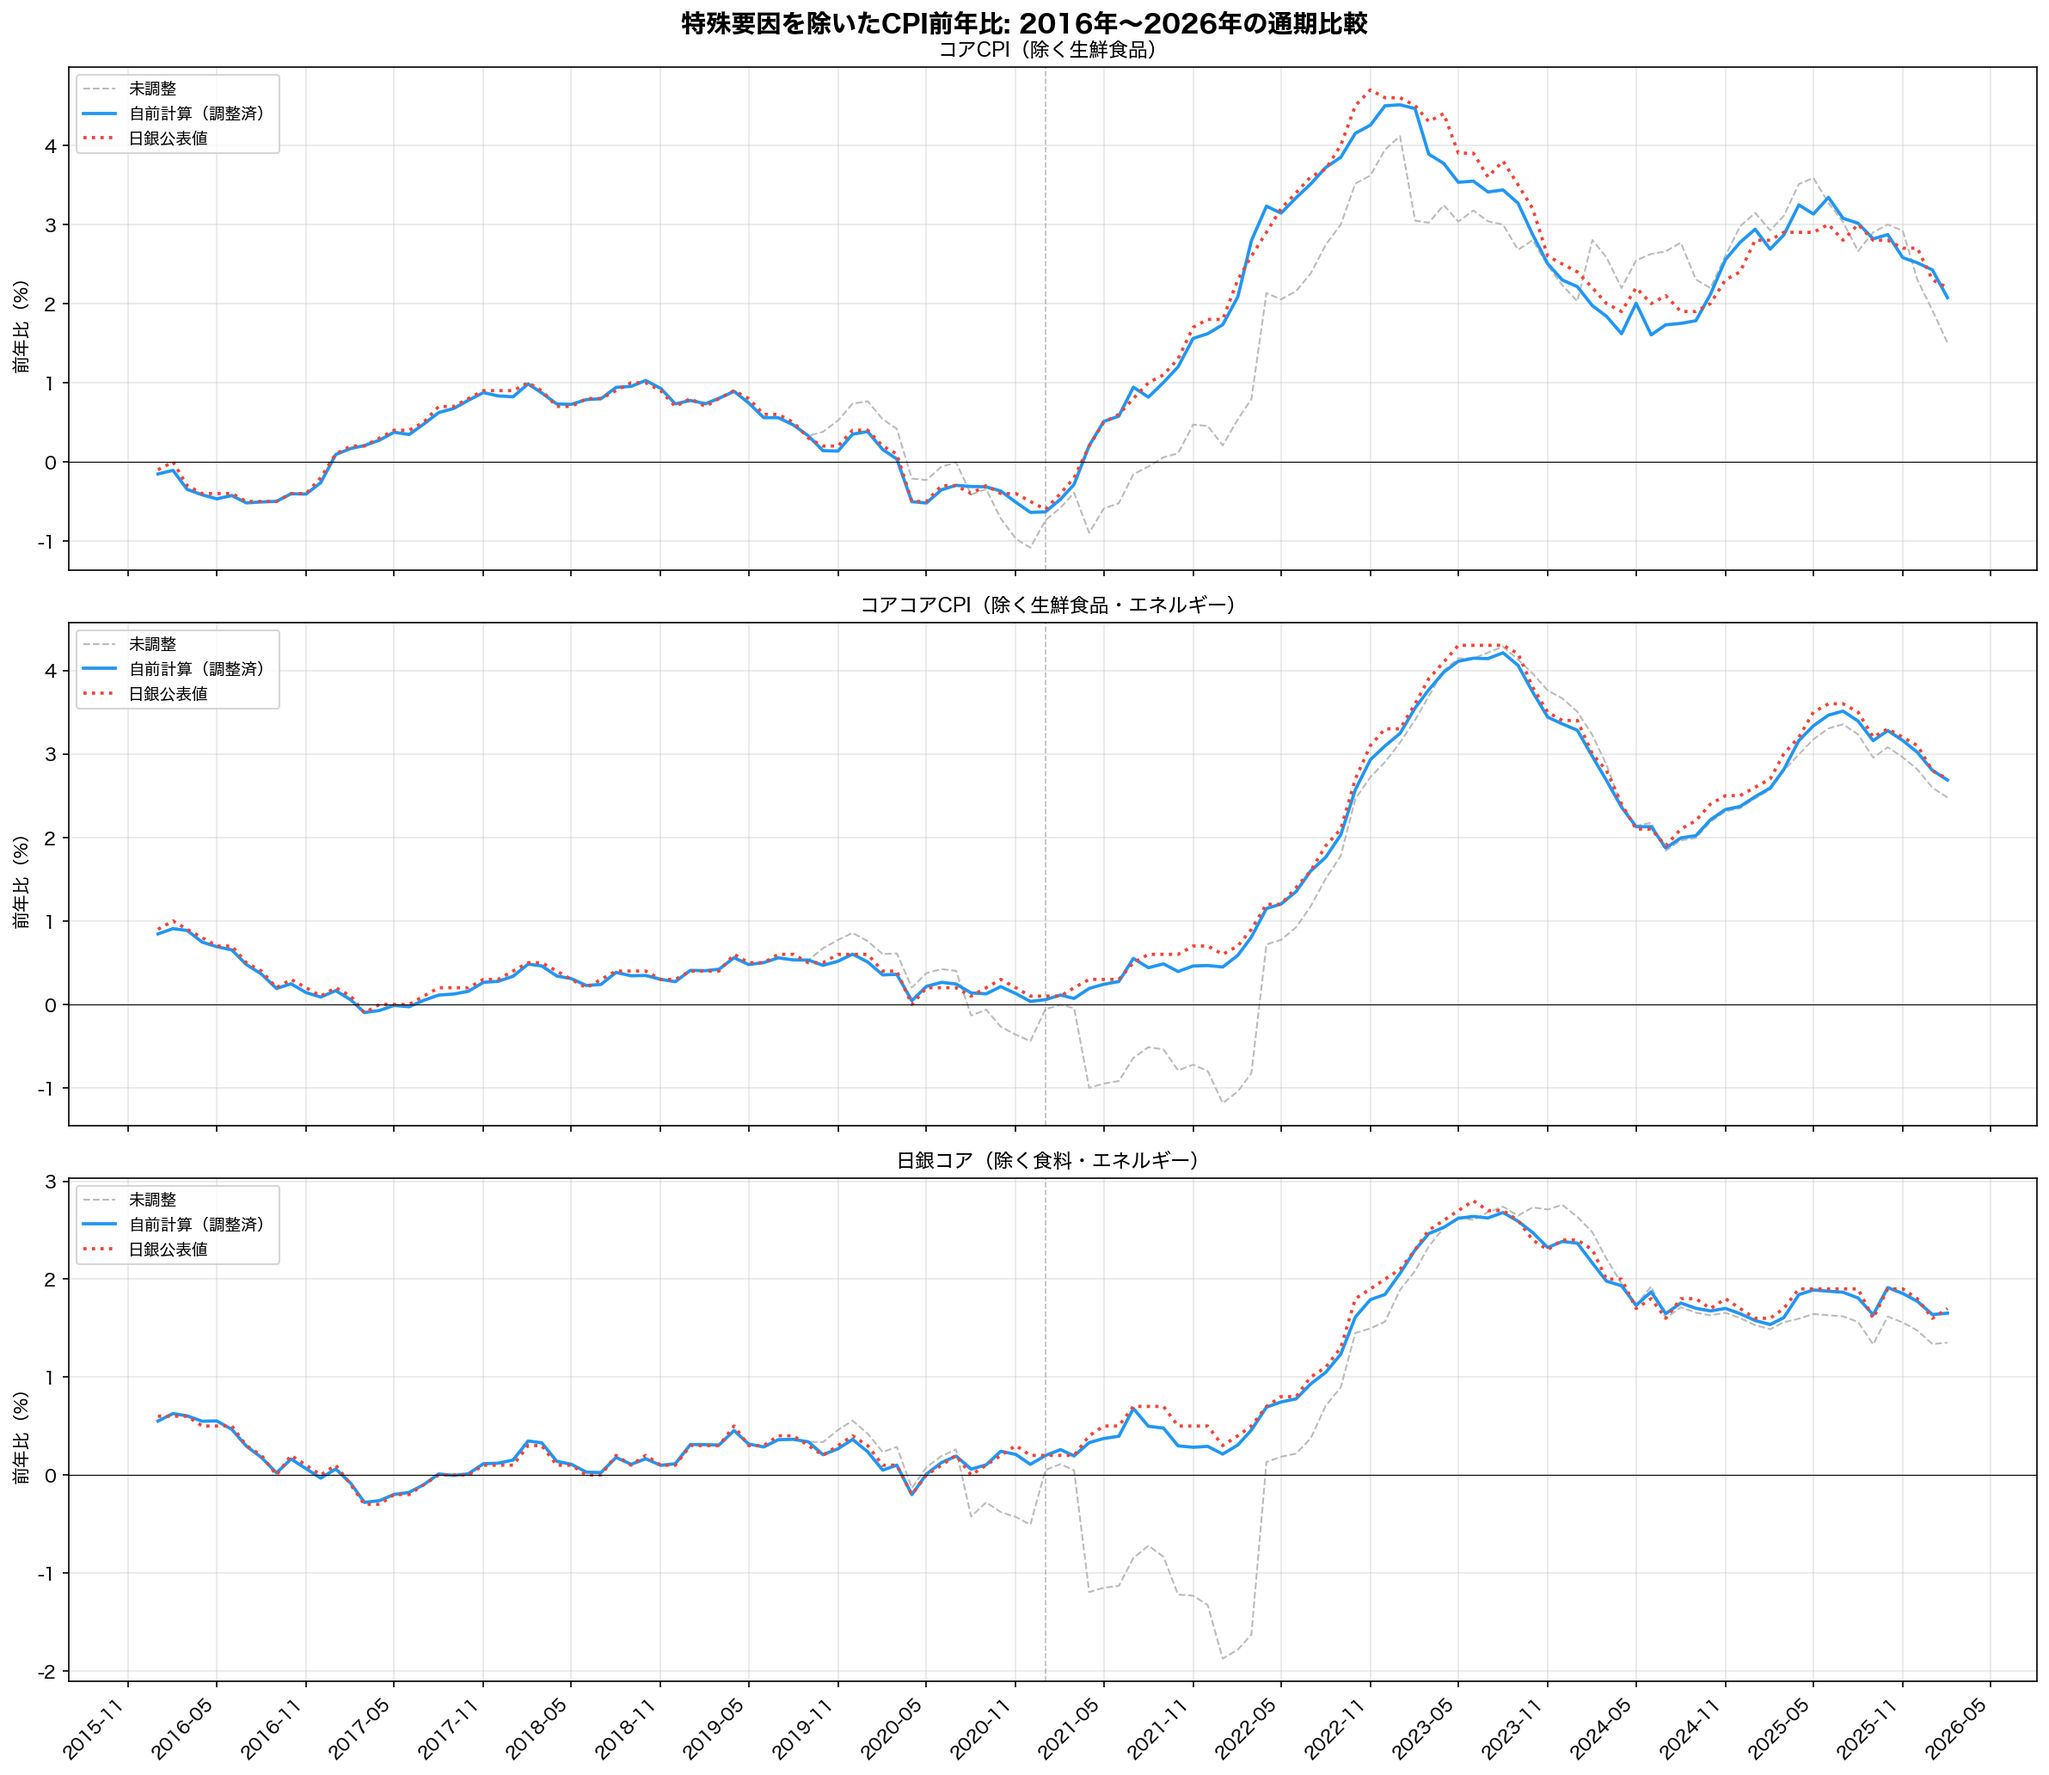
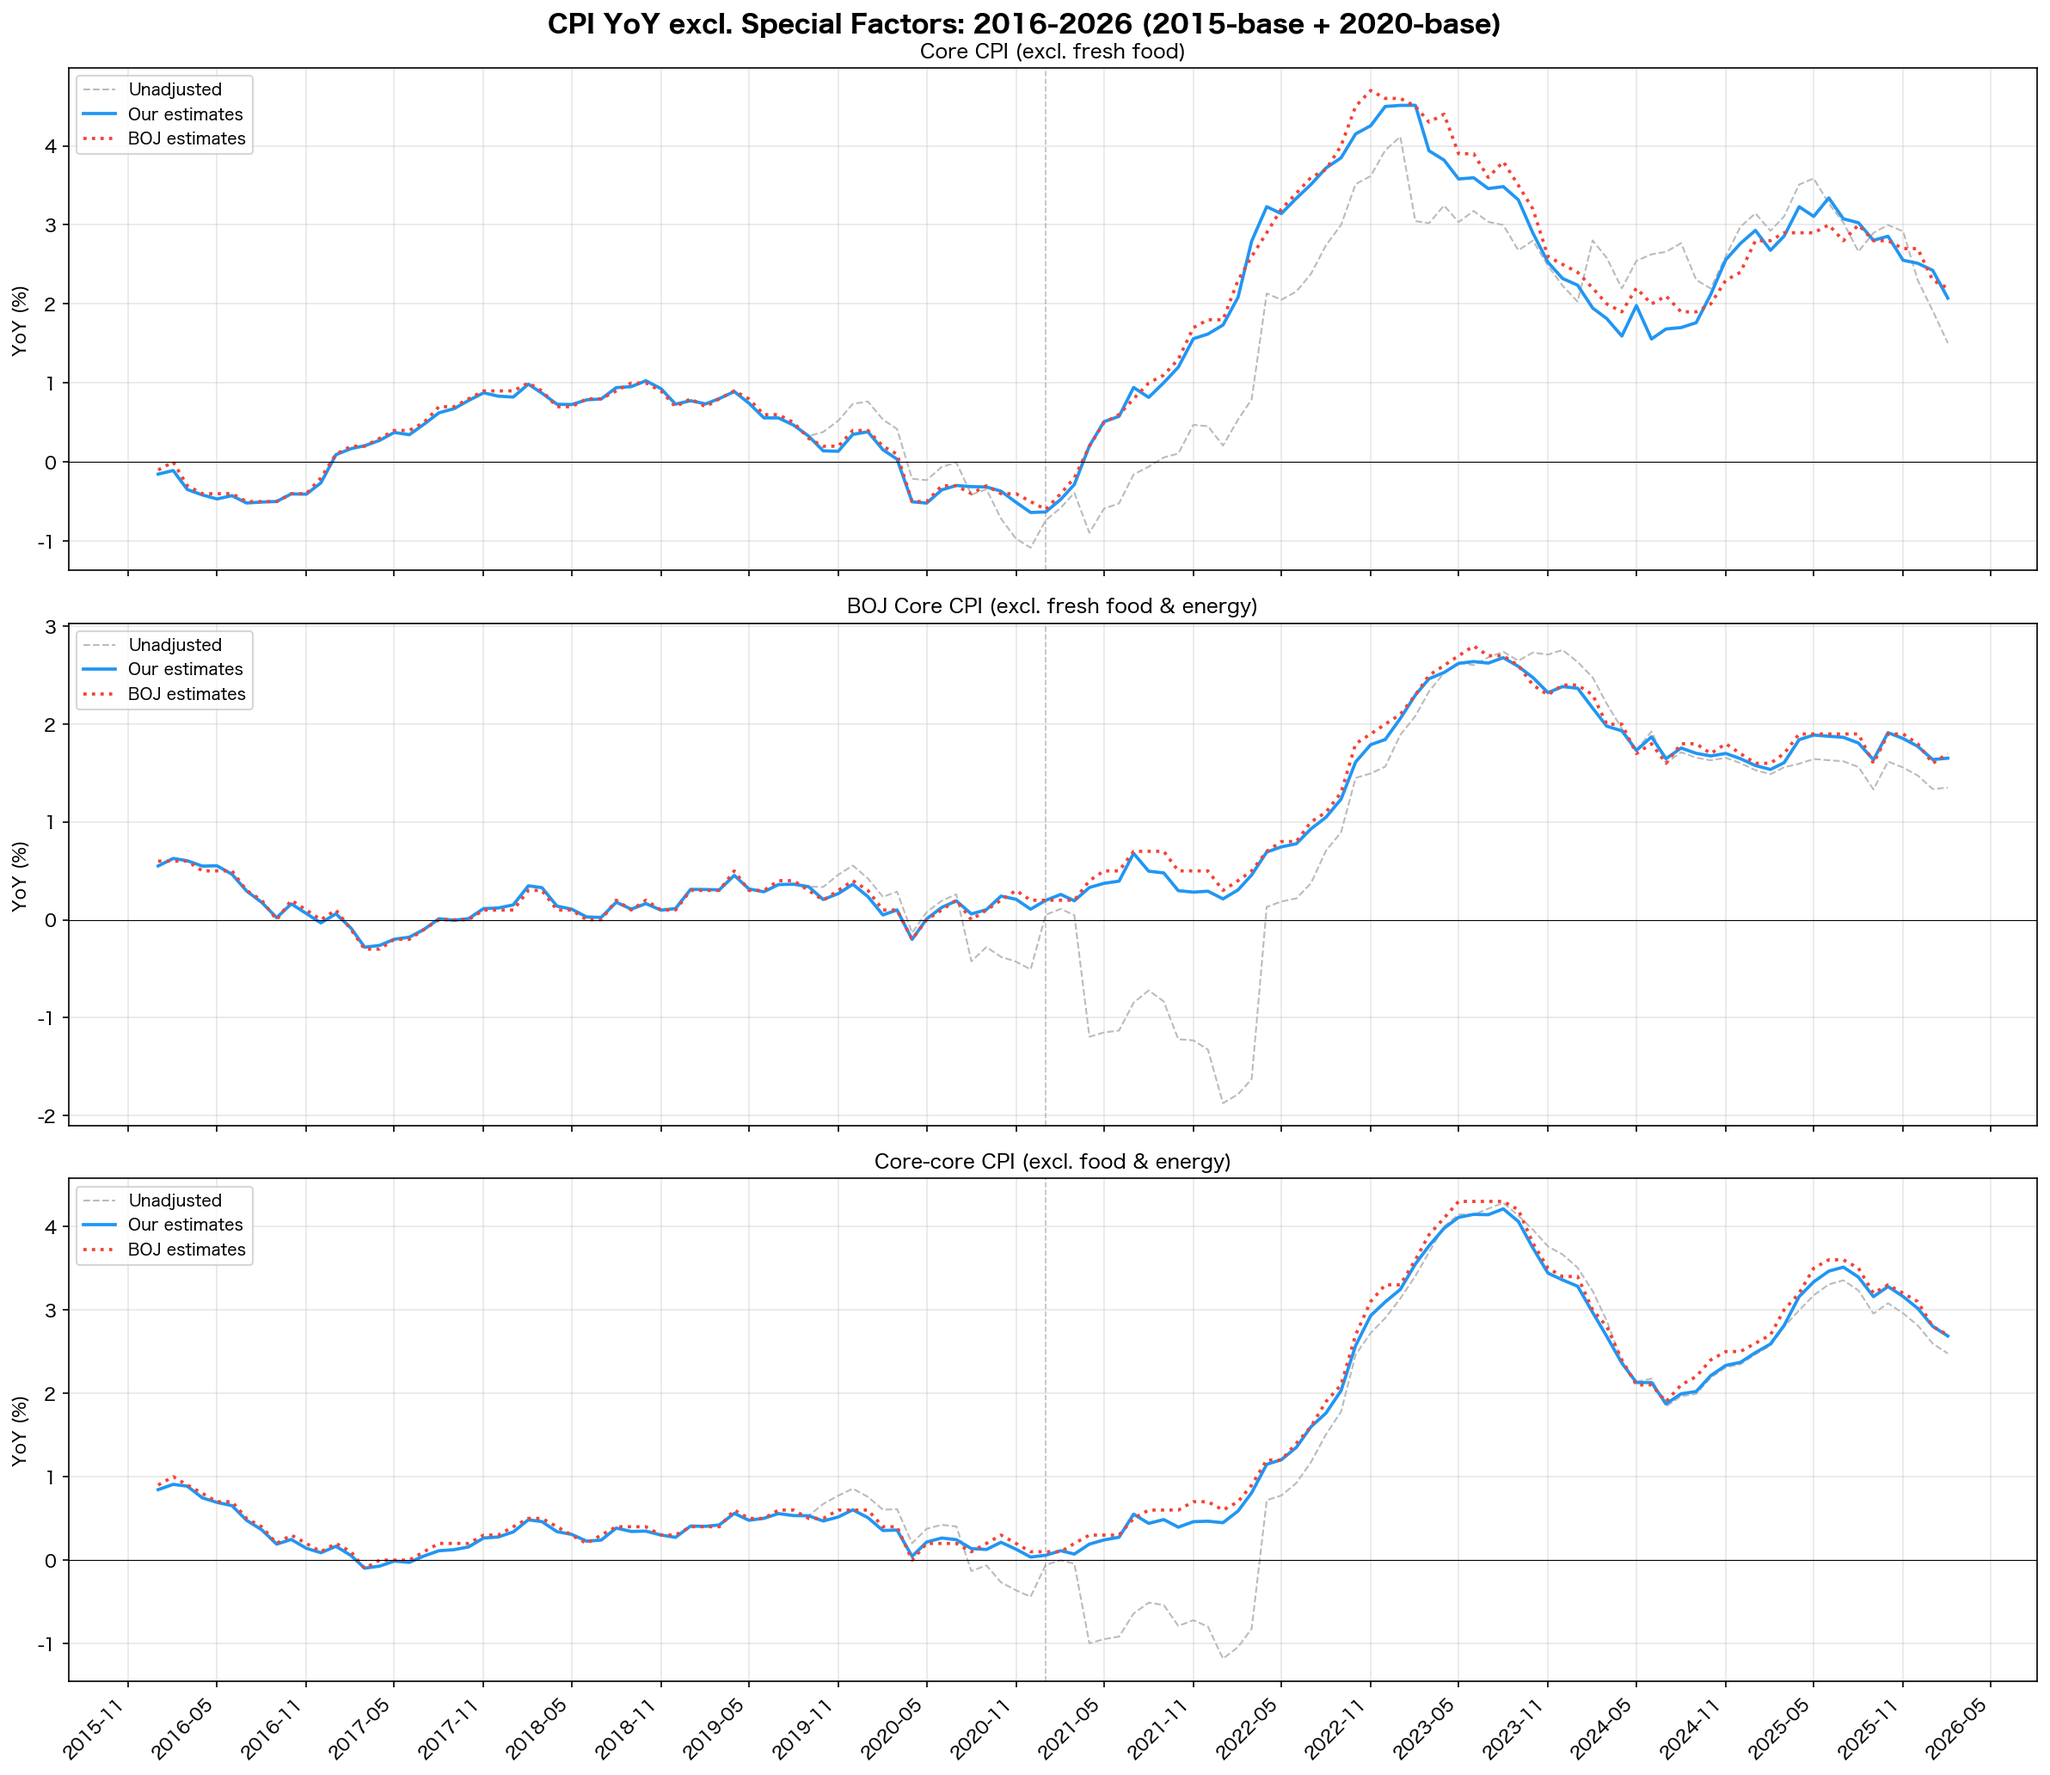
Merge full-period chart into plot_results.py, all text in English
Added fig4 (fig_full_period_comparison.png): 2015-base + 2020-base
combined chart with English labels. Fixed remaining "Computed" →
"Our estimates" in fig2 title.

diff --git a/scripts/plot_results.py b/scripts/plot_results.py
@@ -17,6 +17,7 @@ from src.fetch_boj import parse_boj
 from src.item_master import load_item_master
 from src.aggregate import compute_weighted_index, compute_yoy, get_official_series
 from src.pipeline import build_adjusted_indices
+from src.policy_engine import apply_all_events
 from src.config import OUTPUT_DIR
 
 plt.rcParams["font.family"] = ["Hiragino Sans", "Hiragino Kaku Gothic Pro", "Arial Unicode MS", "sans-serif"]
@@ -51,7 +52,7 @@ def main():
 
     # --- 図1: 3系列の前年比比較 ---
     fig, axes = plt.subplots(3, 1, figsize=(14, 12), sharex=True)
-    fig.suptitle("CPI YoY excl. Special Factors: Computed vs BOJ estimates", fontsize=14, fontweight="bold")
+    fig.suptitle("CPI YoY excl. Special Factors: Our estimates vs BOJ estimates", fontsize=14, fontweight="bold")
 
     for ax, (series_name, (boj_name, title)) in zip(axes, boj_map.items()):
         # 未調整
@@ -90,7 +91,7 @@ def main():
 
     # --- 図2: 残差（自前計算 - 日銀公表値） ---
     fig, axes = plt.subplots(3, 1, figsize=(14, 10), sharex=True)
-    fig.suptitle("Residuals (Computed - BOJ estimates, %pt)", fontsize=14, fontweight="bold")
+    fig.suptitle("Residuals (Our estimates - BOJ estimates, %pt)", fontsize=14, fontweight="bold")
 
     for ax, (series_name, (boj_name, title)) in zip(axes, boj_map.items()):
         adj = compute_weighted_index(indices_adj, weights, series_name, master)
@@ -145,6 +146,63 @@ def main():
     path3 = OUTPUT_DIR / "fig3_item_adjustments.png"
     fig.savefig(path3, dpi=150, bbox_inches="tight")
     print(f"保存: {path3}")
+    plt.close()
+
+    # --- Fig 4: Full period (2015-base + 2020-base) ---
+    from src.adjust_tax import apply_tax_adjustment
+
+    indices_15, meta_15 = parse_cpi_csv(base_year=2015)
+    weights_15 = get_fixed_weights(meta_15)
+    master_15 = load_item_master(base_year=2015)
+    boj_15 = parse_boj(base_year=2015)
+
+    indices_15_adj = apply_tax_adjustment(indices_15, master_15["item_code"].tolist(), master_15)
+    indices_15_adj = apply_all_events(indices_15_adj, base_year=2015)
+
+    fig, axes = plt.subplots(3, 1, figsize=(16, 14), sharex=True)
+    fig.suptitle("CPI YoY excl. Special Factors: 2016-2026 (2015-base + 2020-base)", fontsize=14, fontweight="bold")
+
+    for ax, (series_name, (boj_name, title)) in zip(axes, boj_map.items()):
+        adj_15 = compute_weighted_index(indices_15_adj, weights_15, series_name, master_15)
+        yoy_15 = compute_yoy(adj_15)
+        orig_15 = compute_weighted_index(indices_15, weights_15, series_name, master_15)
+        yoy_orig_15 = compute_yoy(orig_15)
+
+        adj_20 = compute_weighted_index(indices_adj, weights, series_name, master)
+        yoy_20 = compute_yoy(adj_20)
+        orig_20 = compute_weighted_index(indices, weights, series_name, master)
+        yoy_orig_20 = compute_yoy(orig_20)
+
+        boj_15_s = boj_15[boj_name]
+        boj_20_s = boj[boj_name]
+
+        def combine(s15, s20):
+            part1 = s15[(s15.index >= "2016-01") & (s15.index <= "2020-12")]
+            part2 = s20[s20.index >= "2021-01"]
+            return pd.concat([part1, part2])
+
+        yoy_orig_c = combine(yoy_orig_15, yoy_orig_20)
+        yoy_adj_c = combine(yoy_15, yoy_20)
+        boj_c = combine(boj_15_s, boj_20_s)
+
+        ax.plot(ym_to_date(yoy_orig_c.index), yoy_orig_c.values, color="#BBBBBB", linewidth=1, label="Unadjusted", linestyle="--")
+        ax.plot(ym_to_date(yoy_adj_c.index), yoy_adj_c.values, color="#2196F3", linewidth=1.8, label="Our estimates")
+        ax.plot(ym_to_date(boj_c.index), boj_c.values, color="#F44336", linewidth=1.8, label="BOJ estimates", linestyle=":")
+
+        ax.axvline(x=pd.Timestamp("2021-01"), color="gray", linewidth=0.8, linestyle="--", alpha=0.5)
+        ax.set_title(title, fontsize=11)
+        ax.set_ylabel("YoY (%)")
+        ax.legend(loc="upper left", fontsize=9)
+        ax.grid(True, alpha=0.3)
+        ax.axhline(y=0, color="black", linewidth=0.5)
+
+    axes[-1].xaxis.set_major_formatter(mdates.DateFormatter("%Y-%m"))
+    axes[-1].xaxis.set_major_locator(mdates.MonthLocator(interval=6))
+    plt.setp(axes[-1].xaxis.get_majorticklabels(), rotation=45, ha="right")
+    plt.tight_layout()
+    path4 = OUTPUT_DIR / "fig_full_period_comparison.png"
+    fig.savefig(path4, dpi=150, bbox_inches="tight")
+    print(f"保存: {path4}")
     plt.close()
 
 
